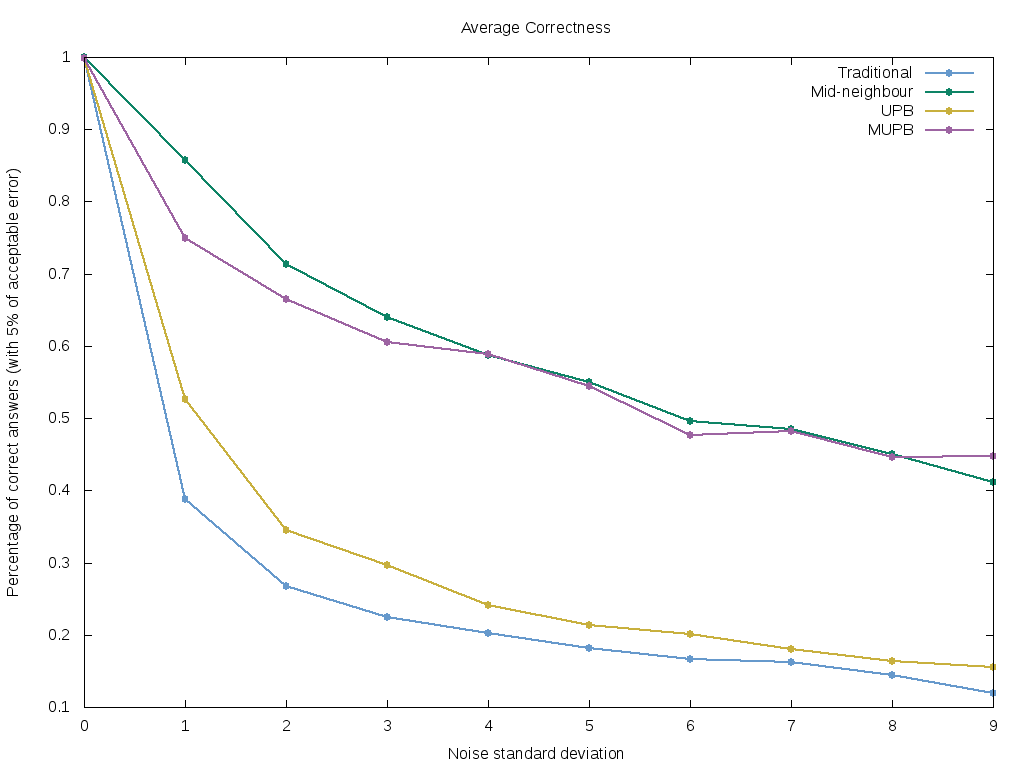
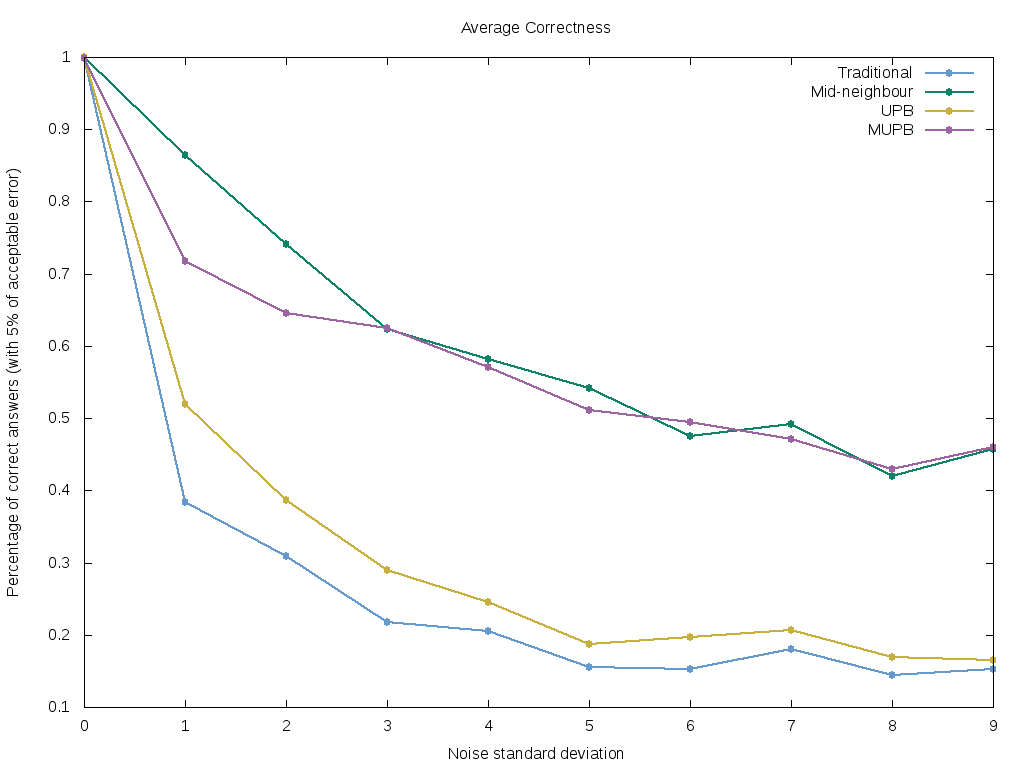
Updated limit on the upb and mupb runs to be n

diff --git a/bisection/test_bisection.py b/bisection/test_bisection.py
@@ -16,7 +16,7 @@ test_size = 100.0
 ##
 time_file = open ('time_data.txt', 'w')
 evaluations_file = open ('evaluations_data.txt', 'w')
-for j in range (10):
+for j in range (5):
     d_evaluations = 0
     m_evaluations = 0
     s_evaluations = 0
@@ -67,7 +67,7 @@ for j in range (10):
     evaluations_file.write (str (max_input_size) + " " + str (d_evaluations / test_size) + " " + str (m_evaluations / test_size) + " " + str (s_evaluations / test_size) + " " + str (s2_evaluations / test_size) + "\n")
     time_file.write (str (max_input_size) + " " + str (d_time) + " " + str (m_time) +  " " + str (s_time) + " " + str (s2_time) + " " +"\n")
     
-    max_input_size += 200
+    max_input_size += 500
 
 evaluations_file.close ()
 time_file.close ()

diff --git a/bisection/bisection.py b/bisection/bisection.py
@@ -190,7 +190,7 @@ def upb (v, pc, pmf = []):
     first_qt = eights [2][0]
     third_qt = eights [6][0]
 
-    limit = 1000
+    limit = n
     while ((first_qt is not median and \
            median is not third_qt) and limit > 0):
         evaluations += 3
@@ -243,7 +243,7 @@ def mupb (v, pc, pmf = []):
     first_qt = eights [2][0]
     third_qt = eights [6][0]
 
-    limit = 10000
+    limit = n
     while (first_qt is not median and \
            median is not third_qt and limit > 0):
         evaluations += 3
